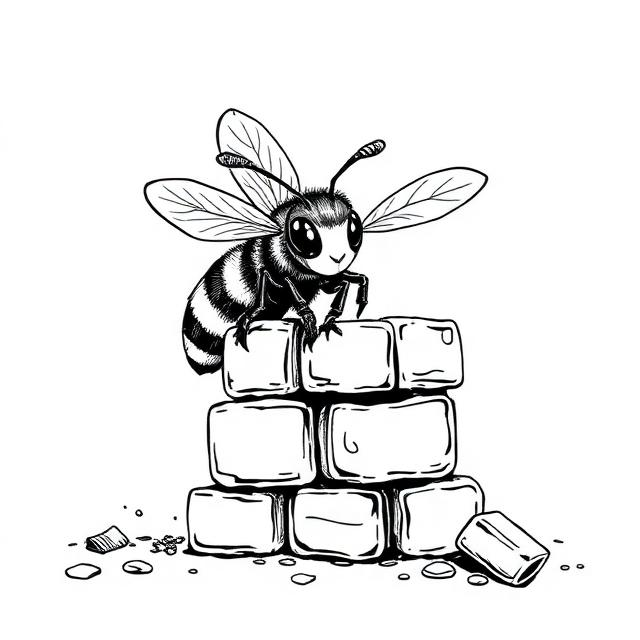
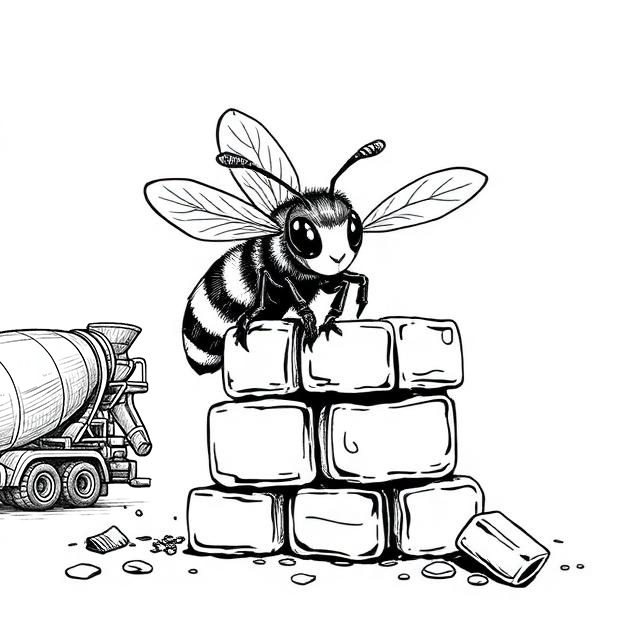
feat: added secret rebus 🤫

Changed region(s): [[0.0, 0.5, 0.25, 0.8125]]

diff --git a/src/app/componenets/puzzle26/puzzle26.ts b/src/app/componenets/puzzle26/puzzle26.ts
@@ -1,19 +1,19 @@
 import { Component } from '@angular/core';
 
 @Component({
-  selector: 'app-puzzle15',
+  selector: 'app-puzzle26',
   standalone: true,
   imports: [],
-  templateUrl: './puzzle15.html',
-  styleUrls: ['./puzzle15.scss'],
+  templateUrl: './puzzle26.html',
+  styleUrls: ['./puzzle26.scss'],
 })
-export class Puzzle15 {
-  rebus15 = 'assets/rebus15.png';
+export class Puzzle26 {
+  rebus26 = 'assets/rebus26.png';
   locked = true;
 
   handleImageError() {
     console.error('Failed to load rebus image');
-    this.rebus15 = 'assets/placeholder.png';
+    this.rebus26 = 'assets/placeholder.png';
   }
 
   unlock(value: string) {

diff --git a/src/app/app.routes.ts b/src/app/app.routes.ts
@@ -25,6 +25,7 @@ import { Puzzle22 } from './componenets/puzzle22/puzzle22';
 import { Puzzle23 } from './componenets/puzzle23/puzzle23';
 import { Puzzle24 } from './componenets/puzzle24/puzzle24';
 import { Puzzle25 } from './componenets/puzzle25/puzzle25';
+import { Puzzle26 } from './componenets/puzzle26/puzzle26';
 
 export const routes: Routes = [
   { path: '', component: Landing },
@@ -53,4 +54,5 @@ export const routes: Routes = [
   { path: 'puzzle23', component: Puzzle23 },
   { path: 'puzzle24', component: Puzzle24 },
   { path: 'puzzle25', component: Puzzle25 },
+  { path: 'puzzle26', component: Puzzle26 },
 ];

diff --git a/src/app/componenets/puzzle26/puzzle26.spec.ts b/src/app/componenets/puzzle26/puzzle26.spec.ts
@@ -1,0 +1,23 @@
+import { ComponentFixture, TestBed } from '@angular/core/testing';
+
+import { Puzzle26 } from './puzzle26';
+
+describe('Puzzle26', () => {
+  let component: Puzzle26;
+  let fixture: ComponentFixture<Puzzle26>;
+
+  beforeEach(async () => {
+    await TestBed.configureTestingModule({
+      imports: [Puzzle26]
+    })
+    .compileComponents();
+
+    fixture = TestBed.createComponent(Puzzle26);
+    component = fixture.componentInstance;
+    await fixture.whenStable();
+  });
+
+  it('should create', () => {
+    expect(component).toBeTruthy();
+  });
+});

diff --git a/src/app/componenets/landing/landing.ts b/src/app/componenets/landing/landing.ts
@@ -34,5 +34,6 @@ export class Landing {
     { id: 23, name: 'Rebus 23', description: 'EN (e) - 7', path: 'puzzle23' },
     { id: 24, name: 'Rebus 24', description: 'NL (r) - 3', path: 'puzzle24' },
     { id: 25, name: 'Rebus 25', description: 'EN (g) - 6', path: 'puzzle25' },
+    { id: 26, name: 'Rebus 26', description: 'Secret rebus 🤫', path: 'puzzle26' },
   ];
 }

diff --git a/src/app/componenets/puzzle15/puzzle15.html b/src/app/componenets/puzzle15/puzzle15.html
@@ -1,5 +1,5 @@
 <div class="puzzle-container">
   <h2>Rebus 15</h2>
-  <img [src]="rebus15a" alt="Rebus Puzzle 15" class="puzzle-image" />
-  <img [src]="rebus15b" alt="Rebus Puzzle 15" class="puzzle-image" />
+  <h3>NL - 8 Letters</h3>
+  <img [src]="rebus15" alt="Rebus Puzzle 15" class="puzzle-image" />
 </div>

diff --git a/src/app/componenets/puzzle26/puzzle26.html b/src/app/componenets/puzzle26/puzzle26.html
@@ -1,0 +1,6 @@
+<div class="puzzle-container">
+  <h2>Rebus 26</h2>
+  <h3>You've found the hidden rebus! For an extra point add it to the answer sheet.</h3>
+  <h3>EN - 6 Letters</h3>
+  <img [src]="rebus26" alt="Rebus Puzzle 26" class="puzzle-image" />
+</div>

diff --git a/src/app/componenets/puzzle13/puzzle13.html b/src/app/componenets/puzzle13/puzzle13.html
@@ -1,5 +1,6 @@
 <div class="puzzle-container">
   <h2>Rebus 13</h2>
+  <h3>EN/NL/Latin - 8 Letters</h3>
   <img [src]="rebus13a" alt="Rebus Puzzle 13" class="puzzle-image" />
   <img [src]="rebus13b" alt="Rebus Puzzle 13" class="puzzle-image" />
 </div>

diff --git a/src/app/componenets/puzzle17/puzzle17.html b/src/app/componenets/puzzle17/puzzle17.html
@@ -1,5 +1,5 @@
 <div class="puzzle-container">
   <h2>Rebus 17</h2>
-  <img [src]="rebus17a" alt="Rebus Puzzle 17" class="puzzle-image" />
+  <h3>NL - 9 Letters</h3>
   <img [src]="rebus17b" alt="Rebus Puzzle 17" class="puzzle-image" />
 </div>

diff --git a/src/app/componenets/puzzle5/puzzle5.html b/src/app/componenets/puzzle5/puzzle5.html
@@ -1,5 +1,5 @@
 <div class="puzzle-container">
   <h2>Rebus 5</h2>
-  <img [src]="rebus5a" alt="Rebus Puzzle 5" class="puzzle-image" />
+  <h3>EN - 6 Letters</h3>
   <img [src]="rebus5b" alt="Rebus Puzzle 5" class="puzzle-image" />
 </div>

diff --git a/src/app/componenets/puzzle1/puzzle1.html b/src/app/componenets/puzzle1/puzzle1.html
@@ -13,6 +13,7 @@
 } @else {
   <div class="puzzle-container">
     <h2>Rebus 1</h2>
+    <h3>NL - 7 Letters</h3>
     <img [src]="rebus1a" alt="Rebus Puzzle 1" class="puzzle-image" />
   </div>
 }

diff --git a/src/app/componenets/puzzle20/puzzle20.html b/src/app/componenets/puzzle20/puzzle20.html
@@ -1,4 +1,5 @@
 <div class="puzzle-container">
   <h2>Rebus 20</h2>
+  <h3>EN - 8 Letters (2 words)</h3>
   <img [src]="rebus20" alt="Rebus Puzzle 20" class="puzzle-image" />
 </div>

diff --git a/src/app/componenets/puzzle23/puzzle23.html b/src/app/componenets/puzzle23/puzzle23.html
@@ -1,4 +1,5 @@
 <div class="puzzle-container">
   <h2>Rebus 23</h2>
+  <h3>EN - 7 Letters (2 words)</h3>
   <img [src]="rebus23" alt="Rebus Puzzle 23" class="puzzle-image" />
 </div>
